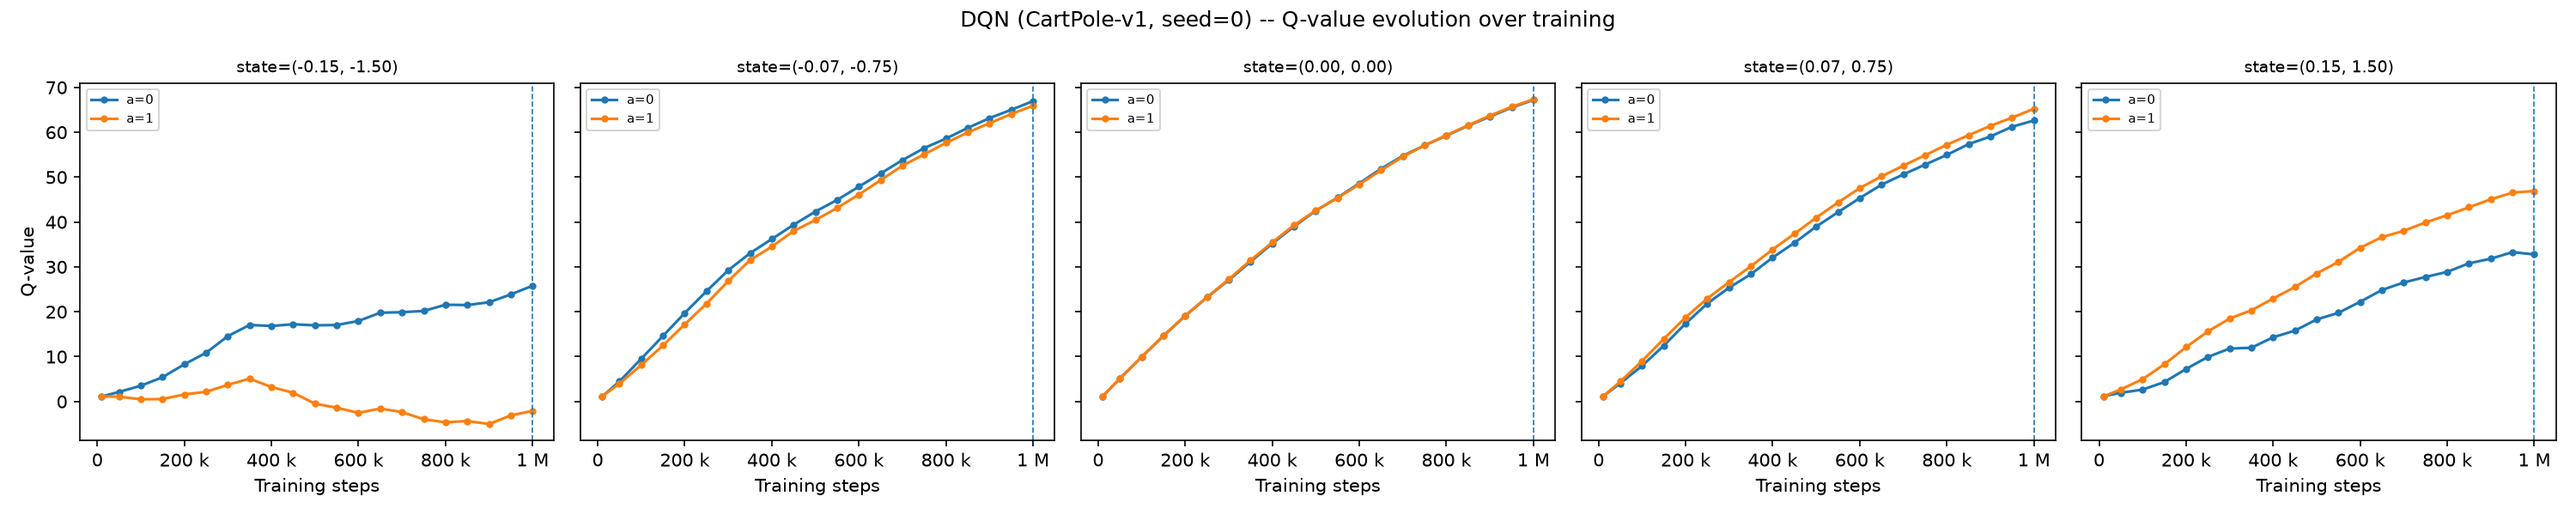
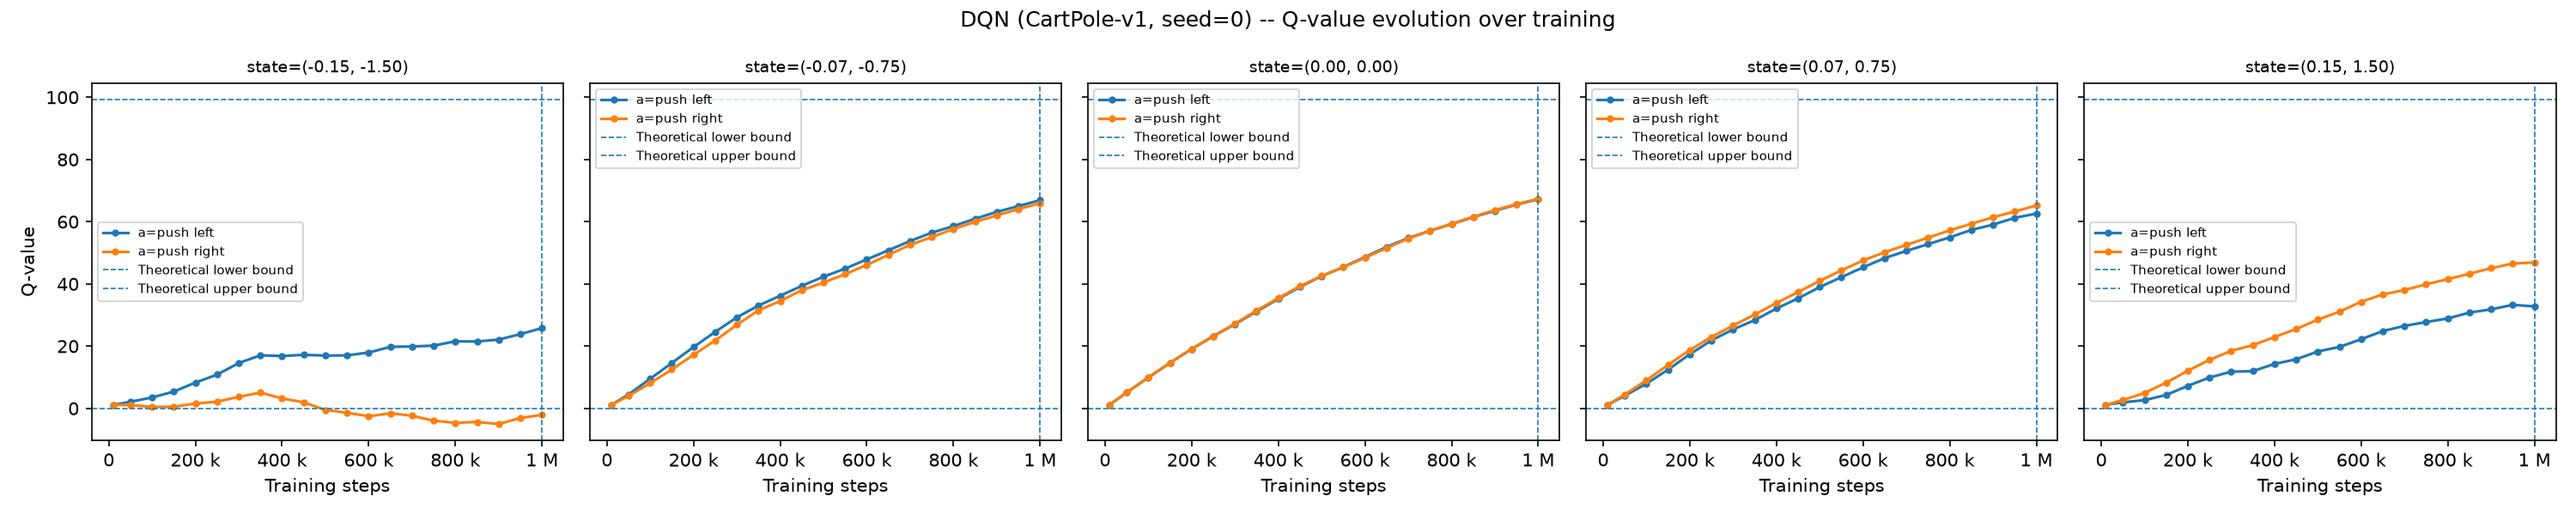
added plots with upper lower bounds

diff --git a/TemporalAnalysis.py b/TemporalAnalysis.py
@@ -38,6 +38,20 @@ from rl_common import (
     set_state,
 )
 
+# ---------------------------------------------------------------------------
+# Theoretical Q-value bounds for DQN on CartPole
+# ---------------------------------------------------------------------------
+
+DQN_CARTPOLE_GAMMA = 0.99
+CARTPOLE_MAX_STEPS = 500
+
+DQN_CARTPOLE_Q_LOWER = 0.0
+
+# 99.34 for gamma = 0.99 and maxsteps=500
+DQN_CARTPOLE_Q_UPPER = (
+    1 - DQN_CARTPOLE_GAMMA ** CARTPOLE_MAX_STEPS
+) / (1 - DQN_CARTPOLE_GAMMA)
+
 
 # ---------------------------------------------------------------------------
 # Output directories
@@ -145,7 +159,28 @@ def make_temporal_plot(run):
                 q_values[si, ai, :],
                 marker="o",
                 markersize=3,
-                label=action_label(action),
+                label=(
+                    f"a=push left" if env_id == "CartPole-v1" and action == 0
+                    else f"a=push right" if env_id == "CartPole-v1" and action == 1
+                    else action_label(action)
+                ),
+            )
+
+        
+                # Theoretical Q-value bounds for DQN on CartPole.
+        if algo == "dqn" and env_id == "CartPole-v1":
+            ax.axhline(
+                DQN_CARTPOLE_Q_LOWER,
+                linestyle="--",
+                linewidth=0.8,
+                label="Theoretical lower bound",
+            )
+
+            ax.axhline(
+                DQN_CARTPOLE_Q_UPPER,
+                linestyle="--",
+                linewidth=0.8,
+                label="Theoretical upper bound",
             )
 
         # Mark the final checkpoint.
@@ -214,17 +249,20 @@ def make_temporal_plot_mean(runs):
     # Select the longest training runs.
     # ---------------------------------------------------------------
 
-    max_steps = max(run["steps"] for run in runs)
+    if algo == "dqn" and env_id == "CartPole-v1":
+        target_steps = 1_000_000
+    else:
+        target_steps = max(run["steps"] for run in runs)
 
     selected_runs = [
         run
         for run in runs
-        if run["steps"] == max_steps
+        if run["steps"] == target_steps
     ]
 
     print(
         f"  {algo}_{env_id}: using "
-        f"{len(selected_runs)} seed(s) at {max_steps} steps"
+        f"{len(selected_runs)} seed(s) at {target_steps} steps"
     )
 
     # ---------------------------------------------------------------
@@ -372,7 +410,7 @@ def make_temporal_plot_mean(runs):
 
     filename = (
         f"temporal_{algo}_{env_id}_"
-        f"steps{max_steps}_mean.png"
+        f"steps{target_steps}_mean.png"
     )
 
     output_path = os.path.join(
@@ -434,6 +472,7 @@ def main():
         print(f"Processing mean {algo}_{env_id}...")
 
         make_temporal_plot_mean(group_runs)
+        
 
     print("\nPlots saved to:")
     print(f"  Separate: {SEPARATE_TEMPORAL_DIR}/")
